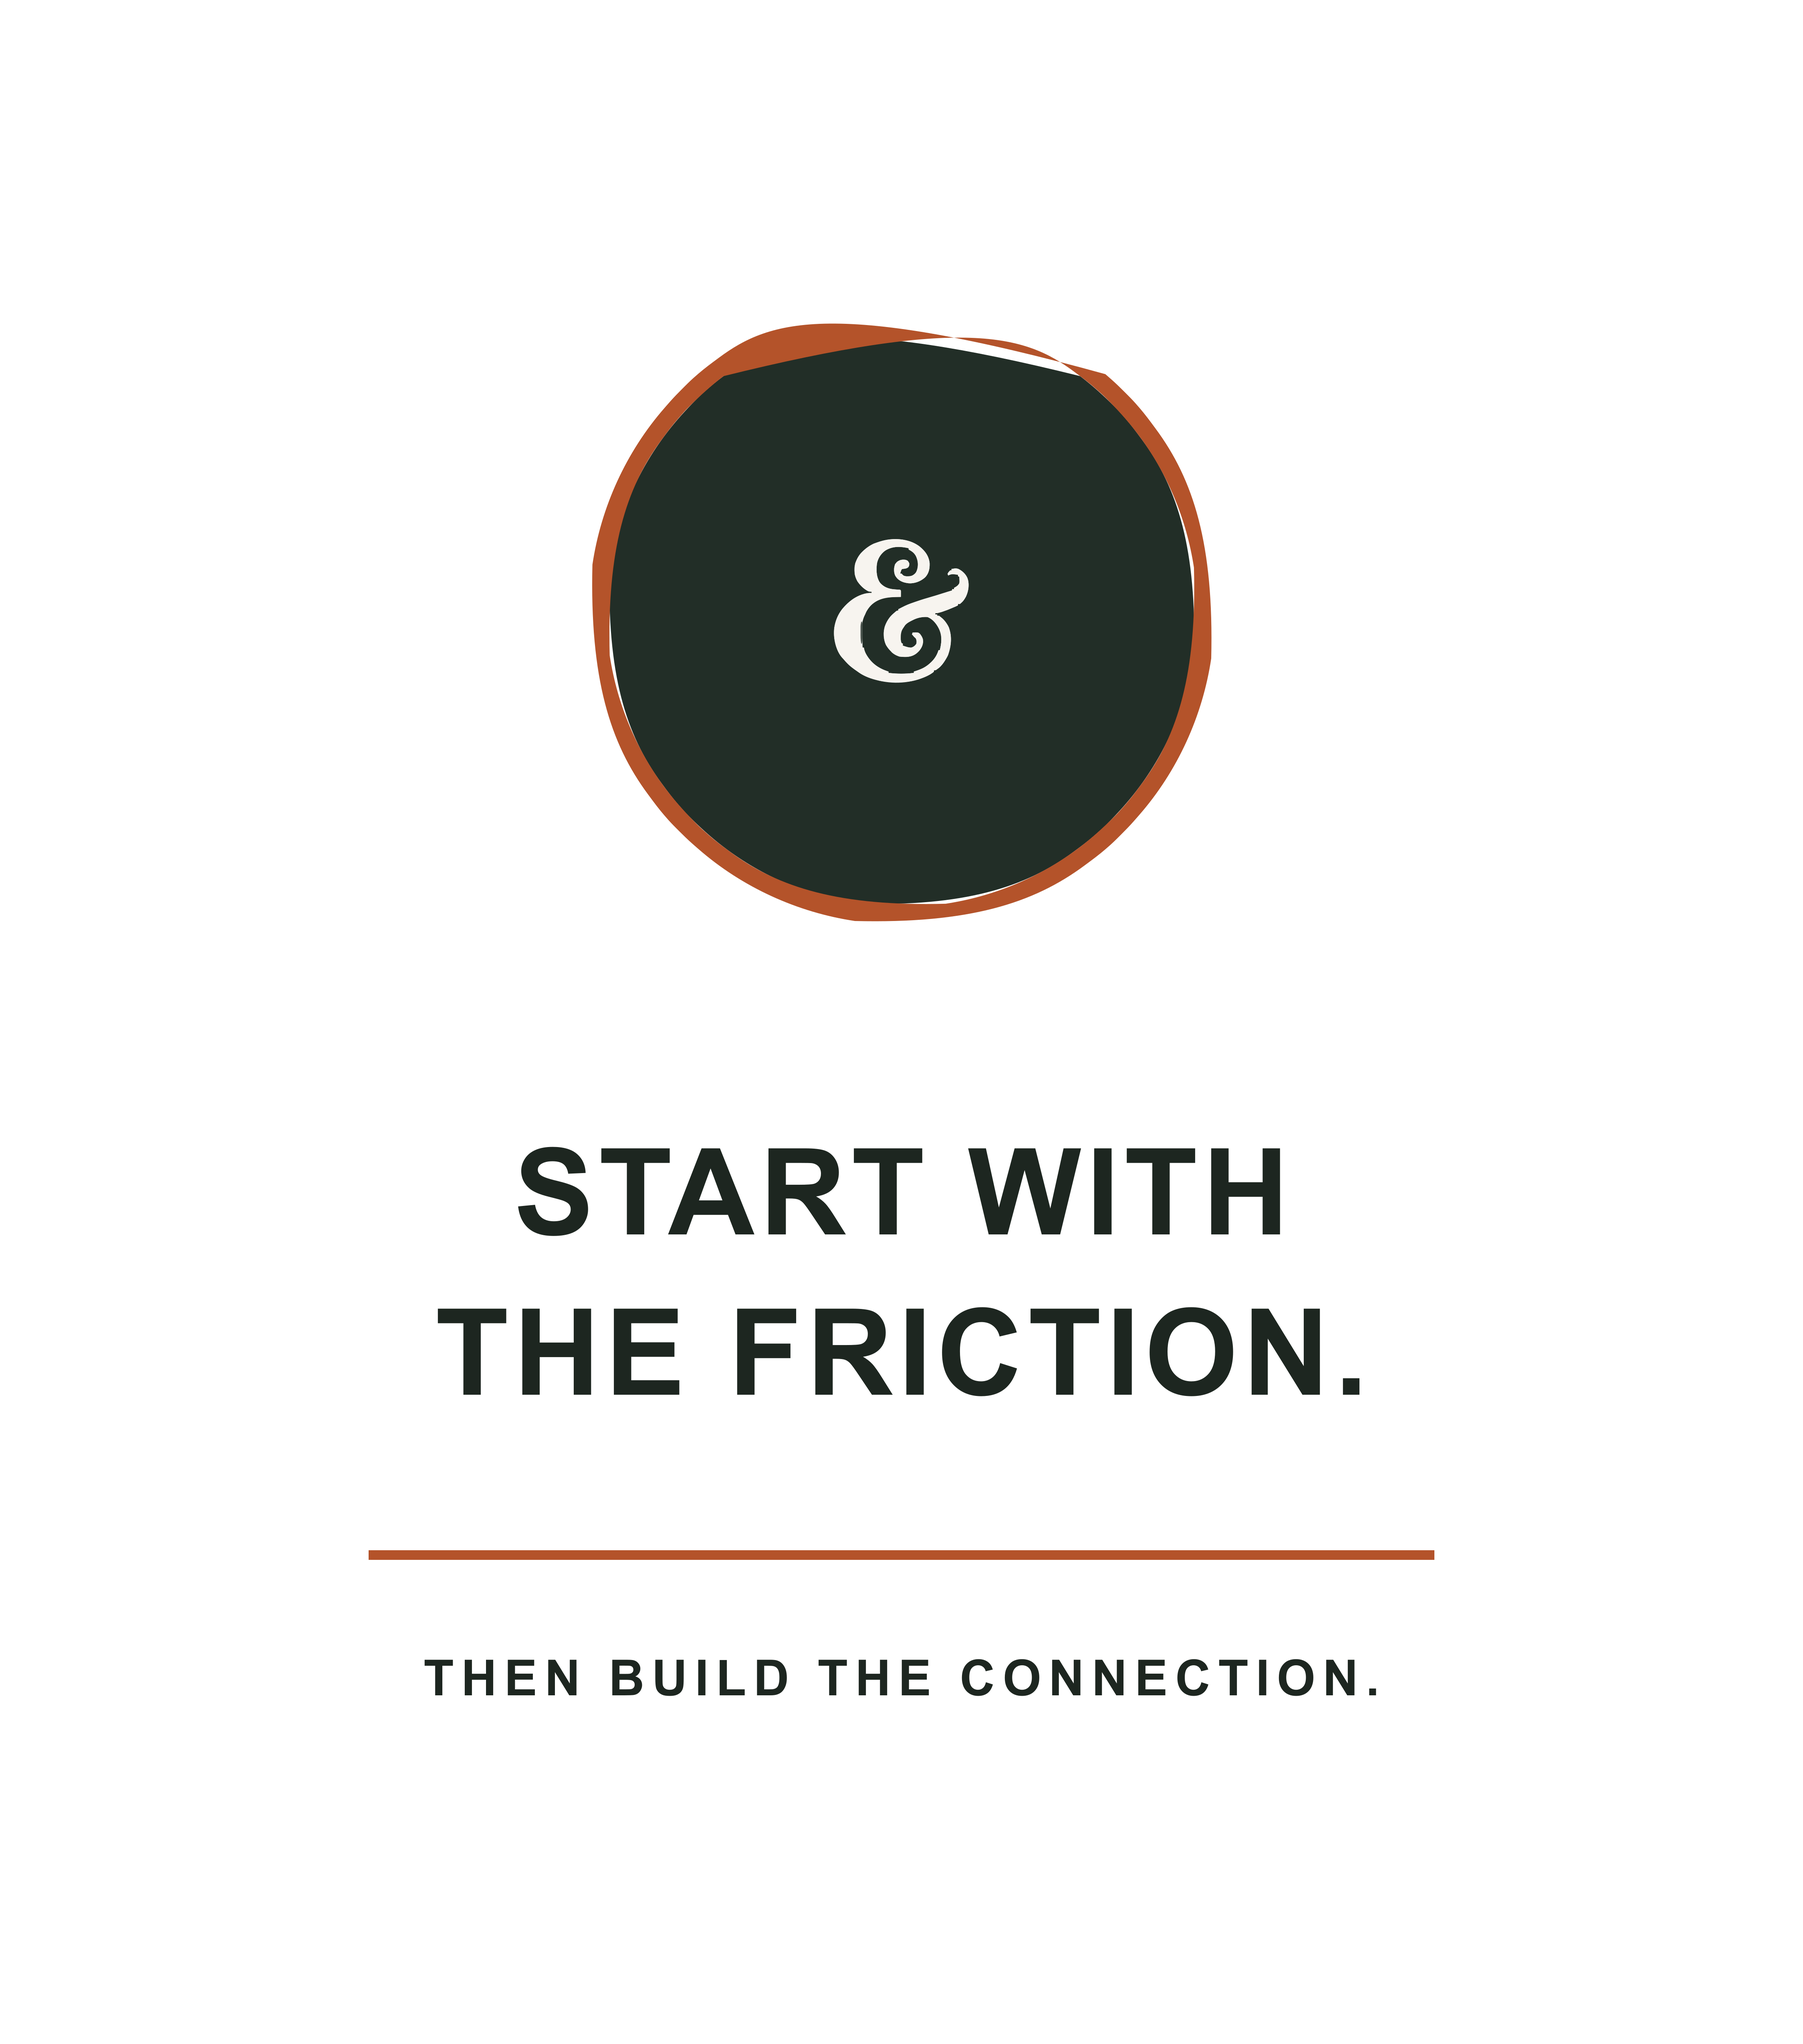
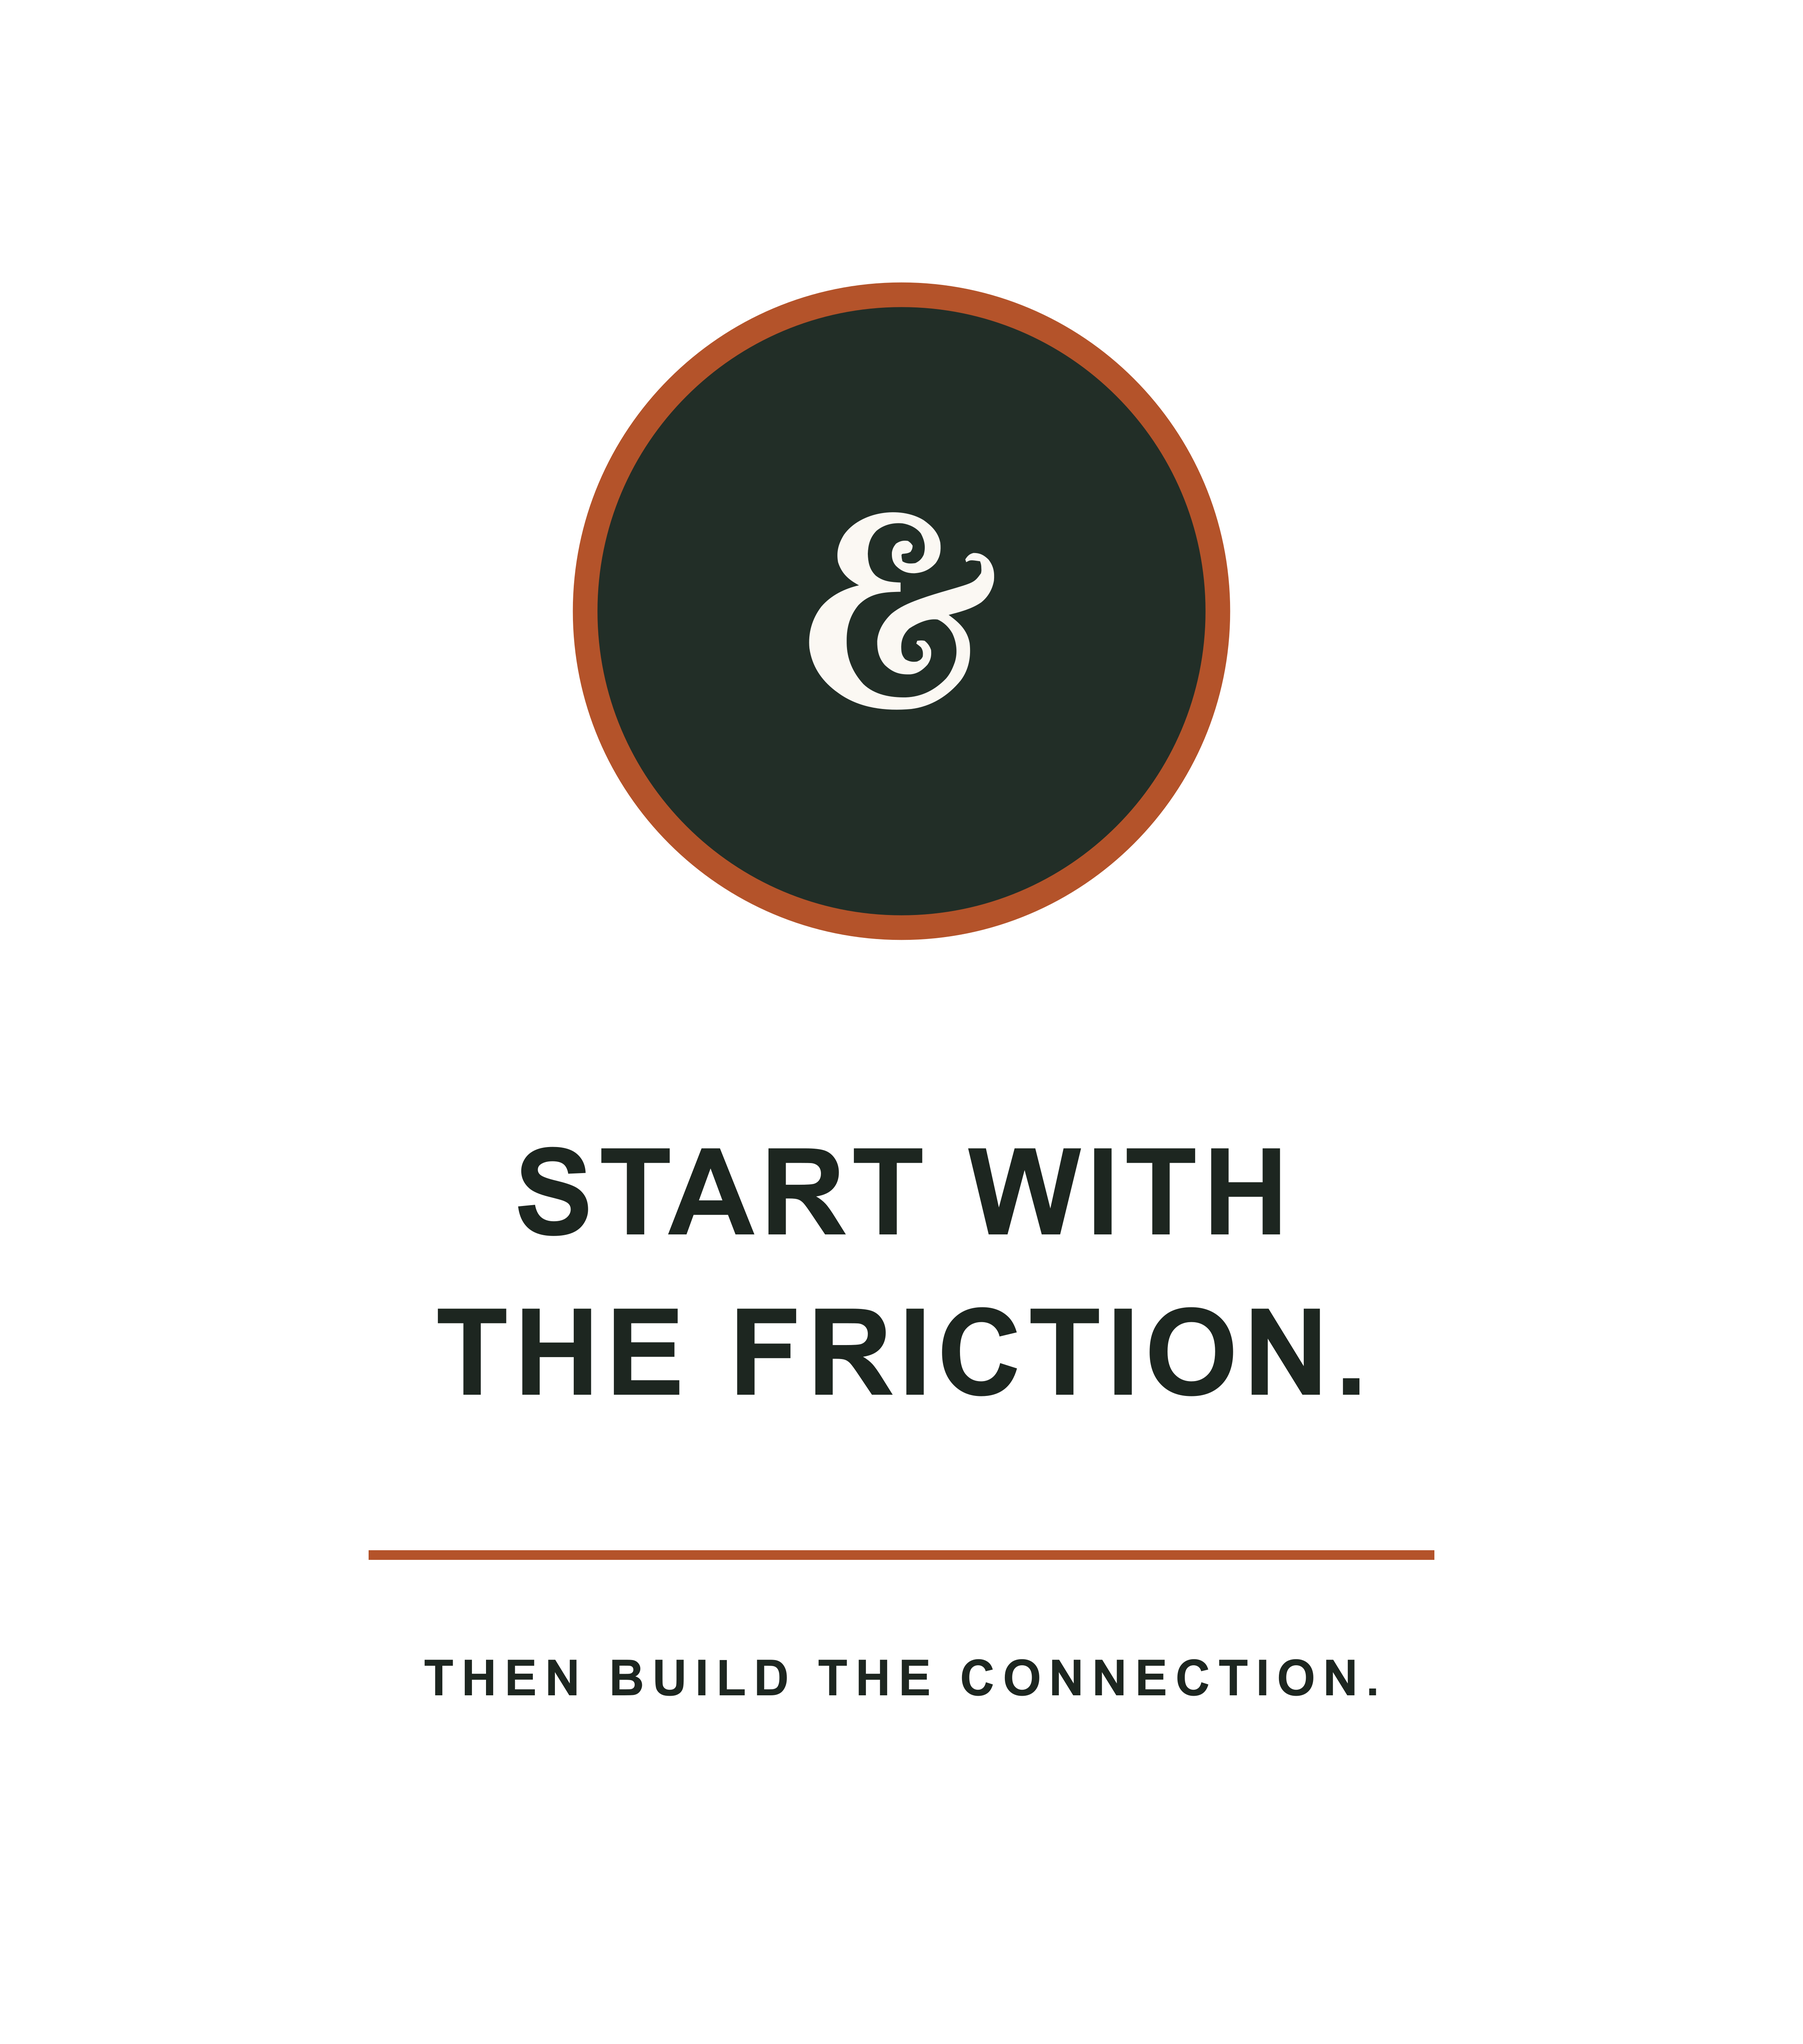
Fix Fox & Hen merch seal geometry
Changelog:
- build a production-safe concentric studio seal from the approved ampersand mark
- replace the irregular avatar edge on tote, mug, sticker, and collection artwork
- refresh real Printful proof mockups and their manifest
- describe the corrected seal accurately in the public example collection

Validation:
- npm run lint (frontend)
- npm run build (frontend)
- live Printful mockup generation for all five collection products

Changed region(s): [[0.3111, 0.1247, 0.6844, 0.4676], [0.4356, 0.2494, 0.56, 0.3429]]

diff --git a/frontend/src/examples/fox-hen-collection.ts b/frontend/src/examples/fox-hen-collection.ts
@@ -32,7 +32,7 @@ export const foxHenProducts: ExampleProduct[] = [
     name: 'Studio Notes Tote',
     product: 'Organic Cotton Tote Bag',
     description:
-      'The approved stacked lockup leads; the real circular social mark and an operating principle live on the reverse.',
+      'The approved stacked lockup leads; the clean ampersand studio seal and an operating principle live on the reverse.',
     suggestedRetail: '$42 suggested',
     placement: 'Front + back DTG',
     costNote: 'The second print area adds $5.95 to production cost before margin and fees.',
@@ -44,7 +44,7 @@ export const foxHenProducts: ExampleProduct[] = [
     id: 'connected-systems-mug',
     name: 'Connected Systems Mug',
     product: 'White Glossy Mug',
-    description: 'The horizontal logo and circular social mark meet across a restrained full-color wrap.',
+    description: 'The horizontal logo and clean ampersand studio seal meet across a restrained full-color wrap.',
     suggestedRetail: '$24 suggested',
     placement: 'Wraparound sublimation',
     costNote: 'One print area is included; no multi-placement surcharge applies.',
@@ -66,7 +66,7 @@ export const foxHenProducts: ExampleProduct[] = [
     id: 'studio-mark-sticker',
     name: 'Studio Mark Sticker',
     product: 'Kiss-Cut Sticker',
-    description: 'The exact circular social mark becomes a durable three-inch studio sticker.',
+    description: 'The clean ampersand studio seal becomes a durable three-inch studio sticker.',
     suggestedRetail: '$8 suggested',
     placement: 'Single kiss-cut print',
     costNote: 'One print area is included; size changes affect the base provider cost.',
